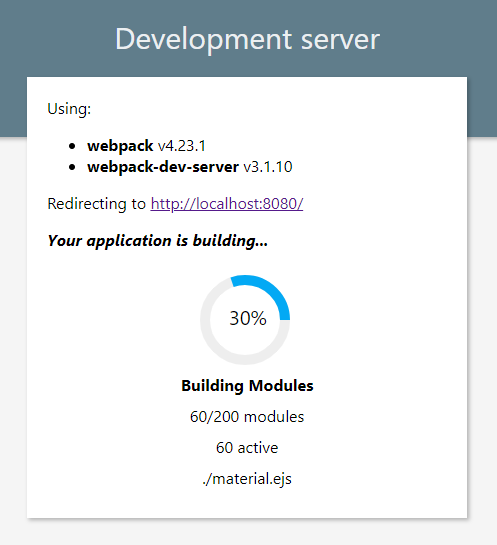
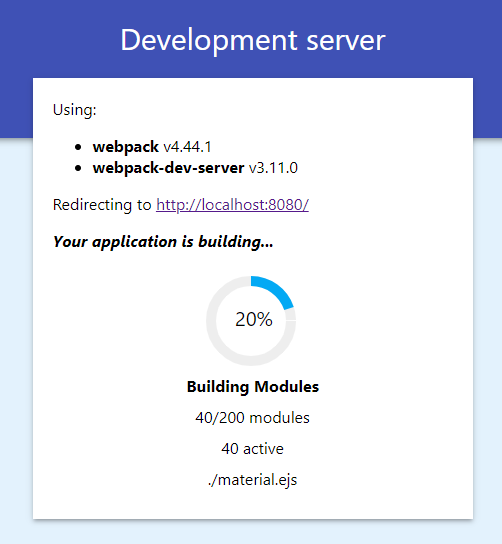
2.1.0 - Add `ignore` option to ignore certain urls or by request properties using function/s.       - Change material theme colors and progress starts at 12 o'clock and continues clockwise.       - Add some unit tests

diff --git a/lib/isIgnored.test.js b/lib/isIgnored.test.js
@@ -1,0 +1,78 @@
+const isIgnored = require('./isIgnored');
+
+module.exports = test => {
+
+  test("isIgnored - string - success", t => {
+    const req = {url: "/api/pets"};
+    const ignore = "/api/pets";
+
+    t.ok(isIgnored(ignore, req));
+  });
+
+  test("isIgnored - string - fail", t => {
+    const req = {url: "/api/pets/1"};
+    const ignore = "/api/pets";
+
+    t.notOk(isIgnored(ignore, req));
+  });
+
+  test("isIgnored - RegExp - success", t => {
+    const req = {url: "/api/pets/1"};
+    const ignore = /^\/api\/pets/;
+
+    t.ok(isIgnored(ignore, req));
+  });
+
+  test("isIgnored - RegExp - fail", t => {
+    const req = {url: "/api/store"};
+    const ignore = /^\/api\/pets/;
+
+    t.notOk(isIgnored(ignore, req));
+  });
+
+  test("isIgnored - Function - success", t => {
+    const req = {headers: {"x-ignore": "true"}};
+    const ignore = req => Boolean(req.headers["x-ignore"]);
+
+    t.ok(isIgnored(ignore, req));
+  });
+
+  test("isIgnored - Function - fail", t => {
+    const req = {url: "/api/store-pets", headers: {}};
+    const ignore = req => Boolean(req.headers["x-ignore"]);
+
+    t.notOk(isIgnored(ignore, req));
+  });
+
+  test("isIgnored - Array - success", t => {
+    const req = {url: "/api/pets"};
+    const ignore = [
+      "/api/store",
+      /^\/api\/pets/
+    ];
+
+    t.ok(isIgnored(ignore, req));
+  });
+
+  test("isIgnored - Array - success (with function)", t => {
+    const req = {url: "/api/ex", headers: {"x-ignore": "true"}};
+    const ignore = [
+      "/api/store",
+      /^\/api\/pets/,
+      req => Boolean(req.headers["x-ignore"])
+    ];
+
+    t.ok(isIgnored(ignore, req));
+  });
+
+  test("isIgnored - Array - fail", t => {
+    const req = {url: "/api/store-pets"};
+    const ignore = [
+      "/api/store",
+      /^\/api\/pets/
+    ];
+
+    t.notOk(isIgnored(ignore, req));
+  });
+
+};

diff --git a/lib/index.js b/lib/index.js
@@ -3,6 +3,7 @@ const path = require('path');
 const ejs = require('ejs');
 const webpack = require('webpack');
 const webpackDevServer = require('webpack-dev-server/package.json');
+const isIgnored = require('./isIgnored');
 
 const data = {
   webpackVersion: webpack.version,
@@ -17,6 +18,7 @@ const data = {
  * @property theme {string}
  * @property template {string}
  * @property disableWhenValid {boolean}
+ * @property ignore {string|RegExp|function|Array}
  */
 
 
@@ -24,7 +26,8 @@ const data = {
 const defaultOptions = {
   title: 'Development Server',
   theme: 'default',
-  disableWhenValid: true
+  disableWhenValid: true,
+  ignore: null
 };
 
 let pluginWasCreatedExternally = false;
@@ -69,7 +72,8 @@ const webpackDevServerWaitpage = (server, options) => {
     if (
       valid || // already valid
       (options.disableWhenValid && wasValid) || // if after valid state should be disabled
-      req.method !== 'GET') // request is not a browser GET
+      !(req.method === 'GET' && req.headers.accept.includes('text/html')) || // request is not a browser GET
+      isIgnored(options.ignore, req)) // request was not ignored somehow
       return await next();
 
     res.setHeader('Content-Type', 'text/html');

diff --git a/test.js b/test.js
@@ -1,0 +1,40 @@
+const fs = require('fs');
+const path = require('path');
+const {createHarness, mochaTapLike} = require('zora');
+const isIgnored = require('./lib/isIgnored');
+
+const config = {
+  ignore: [/node_modules/,/^\./]
+};
+
+const CollectTests = (dirName, ignore) => {
+  return fs.readdirSync(dirName).reduce((a, filePath) => {
+    const absPath = path.join(dirName, filePath);
+    if (isIgnored(ignore, { url: filePath })) return a;
+    const stat = fs.statSync(absPath);
+    if (stat.isDirectory()) {
+      return a.concat(CollectTests(absPath));
+    }
+    if (absPath.endsWith(".test.js")) {
+      a.push(absPath);
+    }
+    return a;
+  }, []);
+}
+
+const tests = CollectTests(__dirname, config.ignore);
+if (tests.length === 0) {
+  console.log("No tests found.");
+} else {
+  const harness = createHarness();
+  const {test} = harness;
+  console.log(`Running ${tests.length} tests...`);
+  tests.forEach(t => {
+    console.log(`> Running ${t}...`);
+    require(t)(test);
+  });
+  harness.report(mochaTapLike).then(() => {
+    const exitCode = harness.pass === true ? 0 : 1;
+    process.exit(exitCode);
+  })
+}

diff --git a/lib/isIgnored.js b/lib/isIgnored.js
@@ -1,0 +1,19 @@
+/**
+ * Check if request url was ignored by the options
+ * @param ignore {string|RegExp|function|Array}
+ * @param req {Request}
+ * @returns {boolean|*}
+ */
+const isIgnored = (ignore, req) => {
+  if (!ignore) return false;
+  if (typeof ignore === 'function') return ignore(req);
+  else if (Array.isArray(ignore)) {
+    return ignore.some(ex => isIgnored(ex, req));
+  } else if (ignore instanceof RegExp) {
+    return ignore.test(req.url);
+  } else if (typeof ignore === 'string') {
+    return ignore === req.url;
+  }
+};
+
+module.exports = isIgnored;

diff --git a/webpack.config.js b/webpack.config.js
@@ -25,7 +25,7 @@ module.exports = {
       }));
 
       // Use this to only test the template using mock data
-      app.use(testMiddleware(server, 'default.ejs'));
+      app.use(testMiddleware(server, 'material.ejs'));
     }
   }
 };

diff --git a/README.md b/README.md
@@ -64,10 +64,11 @@ You can also provide options object for the middleware as a second parameter (i.
 
 | Option |Description|Type|Default Value|
 |--------|-----------|----|-------------|
-|`title`|The window title|String|`"Development Server"`|
-|`theme`|Use a predefined theme (Options are: `"default"`, `"dark"`, `"material"`)|String|`"default"`|
-|`template`|Provide an alternative `ejs` template (overrides the `theme` option)|String|The predefined template used by the `theme` option|
-|`disableWhenValid`|Whether to stop showing the waitPage after the first compilation (otherwise, will continue to show on hot full page reloads)|Boolean|`true` 
+|`title`|The window title|`String`|`"Development Server"`|
+|`theme`|Use a predefined theme (Options are: `"default"`, `"dark"`, `"material"`)|`String`|`"default"`|
+|`template`|Provide an alternative `ejs` template (overrides the `theme` option)|`String`|The predefined template used by the `theme` option|
+|`disableWhenValid`|Whether to stop showing the waitPage after the first compilation (otherwise, will continue to show on hot full page reloads)|`Boolean`|`true` 
+|`ignore`|Rules to ignore certain url or requests|`string|RegExp|function|Array`
 
 * These and any other option would be passed to the global scope of the ejs template.
 

diff --git a/CHANGELOG.md b/CHANGELOG.md
@@ -1,6 +1,14 @@
 # Changelog
 All notable changes to this project will be documented in this file.
 
+## [2.1.0] - 2020-10-28
+- Add `ignore` option to ignore certain urls or by request properties using function/s.
+- Change material theme colors and progress starts at 12 o'clock and continues clockwise.  
+- Add some unit tests
+
+## [2.0.1] - 2020-09-10
+- Try to fix peer dependency of webpack (v4 OR v5)
+
 ## [2.0.0] - 2020-08-24
 - Add support for webpack 5 (see the latest setup instructions, also relevant to the latest v4)
 
